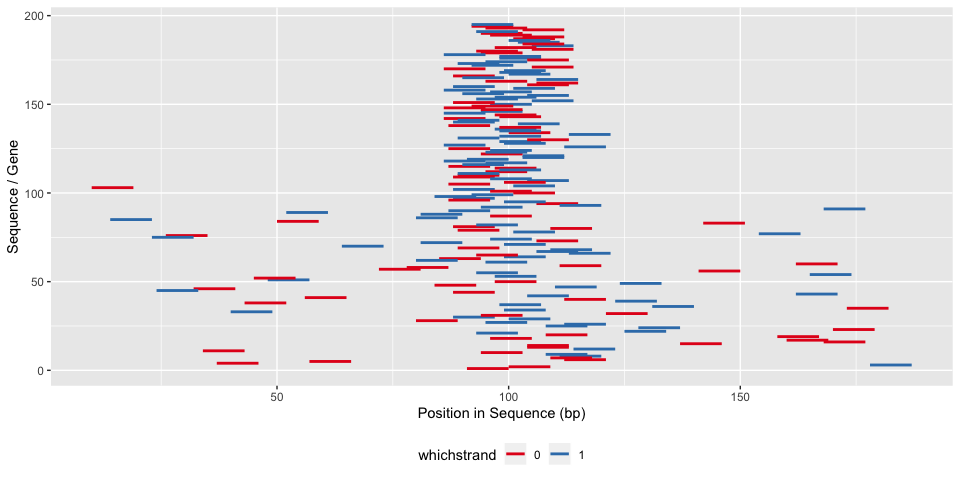
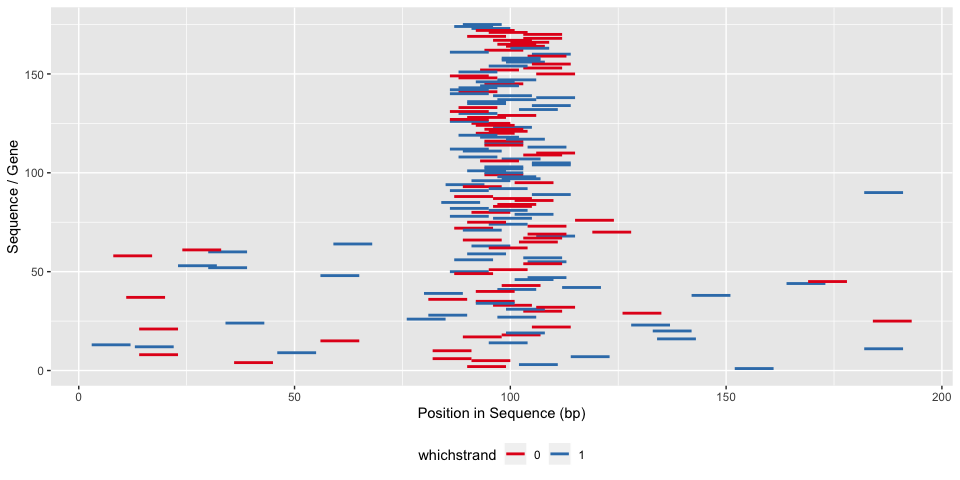
update vignette

diff --git a/vignettes/vignette.md b/vignettes/vignette.md
@@ -1,7 +1,7 @@
 MotifFinder: Vignette (Tutorial)
 ================
 Daniel Wells
-2019-02-21
+2019-03-01
 
 ## Simulate Data
 
@@ -20,8 +20,14 @@ simulated_sequences <- simulate_sequences(motif="ATgTT_GtCC")
 str(simulated_sequences)
 ```
 
-    ##  Named chr [1:300] "CCTCTTTTGTATGGCCAAGGGGCGTAAAACTTAATCTCCGCTTTGCAGACTAGTGCGATTCGTGCGGCCGCTGGACCCAAGCATCCAGGCTCCCGGATTCCCTTACAAAAA"| __truncated__ ...
-    ##  - attr(*, "names")= chr [1:300] "1" "2" "3" "4" ...
+    ## List of 6
+    ##  $ seqs          : Named chr [1:300] "CCTCTTTTGTATGGCCAAGGGGCGTAAAACTTAATCTCCGCTTTGCAGACTAGTGCGATTCGTGCGGCCGCTGGACCCAAGCATCCAGGCTCCCGGATTCCCTTACAAAAA"| __truncated__ "TCGGACTCCGTTGTGCAAACGTTTGCTGATAAGCCCGACCAAGCACTTCAGGAGTTAGTAAGACACATTGGCGAGCATAAGGCAGTTAGTAATAGGGACGAACATAAACGT"| __truncated__ "AGGTCACTATAGAGAATCTAATCCGATTGGGGTACATAATGCTCTTACGATTGGTTTGCCTACAAGTATCTACCTTGCACAGCACTCAAACTCTTACTAAAAGCACGACTA"| __truncated__ "TGTAACTCAGTACATCTACCGGGGTCTATACAAGCCTTCGGGTCATTATTAGGTAGGCCGGCCAATGGGACAAAGAATCTCTAACGCAGGCAATCGCTCGAGGCCTGGTCC"| __truncated__ ...
+    ##   ..- attr(*, "names")= chr [1:300] "1" "2" "3" "4" ...
+    ##  $ whichreg      : int [1:150] 226 94 252 273 147 117 210 220 21 251 ...
+    ##  $ whichpos_s1   : int [1:150] 92 97 90 105 98 95 105 86 106 92 ...
+    ##  $ whichpos      : num [1:150] 92 95 90 87 98 97 105 86 86 100 ...
+    ##  $ whichrevstrand: int [1:150] 21 135 77 17 291 253 280 20 109 284 ...
+    ##  $ truemotif     : chr "ATgTT_GtCC"
 
 # Run MotifFinder
 
@@ -29,7 +35,7 @@ We run MotifFinder with a length slightly shorter than the known motif
 length.
 
 ``` r
-motif_found <- findamotif(simulated_sequences, len=7)
+motif_found <- findamotif(simulated_sequences$seqs, len=7, stranded_prior = T, seed = 42)
 ```
 
 ## Plot the Motif(s) Found
